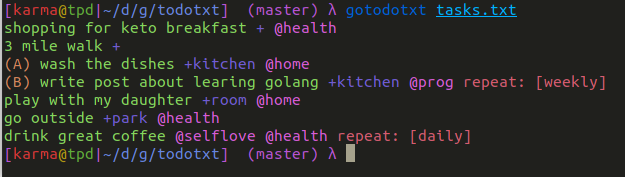
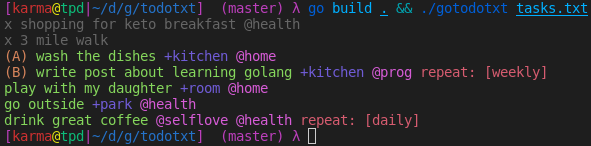
Write done tasks in gray color.
Closes #1

Changed region(s): [[0.0, 0.0, 1.0, 1.0]]

diff --git a/parse/parse.go b/parse/parse.go
@@ -40,6 +40,7 @@ func NewPrio(c byte) *Prio {
 
 // Task is the task representation
 type Task struct {
+	Line string
 	Data     string
 	Status   DoneStatus
 	Priority *Prio
@@ -117,6 +118,7 @@ func Parse(s string) (Task, error) {
 	contents := ParseContents(fs)
 
 	return Task{
+		Line: s,
 		Status:   doneStatus,
 		Priority: prio,
 		Data:     contents.Data,

diff --git a/parse/parse_test.go b/parse/parse_test.go
@@ -251,3 +251,12 @@ func TestTagNames(t *testing.T) {
 
 	}
 }
+
+func TestGetLine(t *testing.T) {
+	line := "+ todo @home"
+	task, err := Parse(line)
+	if err != nil {
+		t.Fail()
+	}
+	mt.AssertEquals(t, "Line field should be equal to input line", line, task.Line)
+}

diff --git a/main.go b/main.go
@@ -50,6 +50,10 @@ var sLight = StylerData{
 }
 
 func Render(t p.Task, s Styler) {
+	if t.Status.IsDone {
+		c.Grayln(t.Line)
+		return
+	}
 	if t.Priority != nil {
 		s.GetStyle(Prio).Printf("%v ", t.Priority)
 	}
